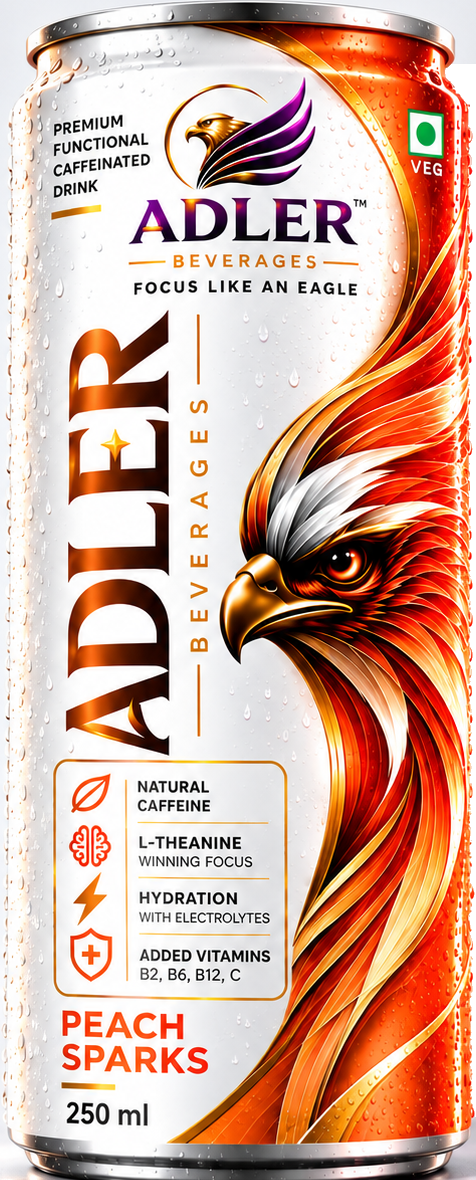
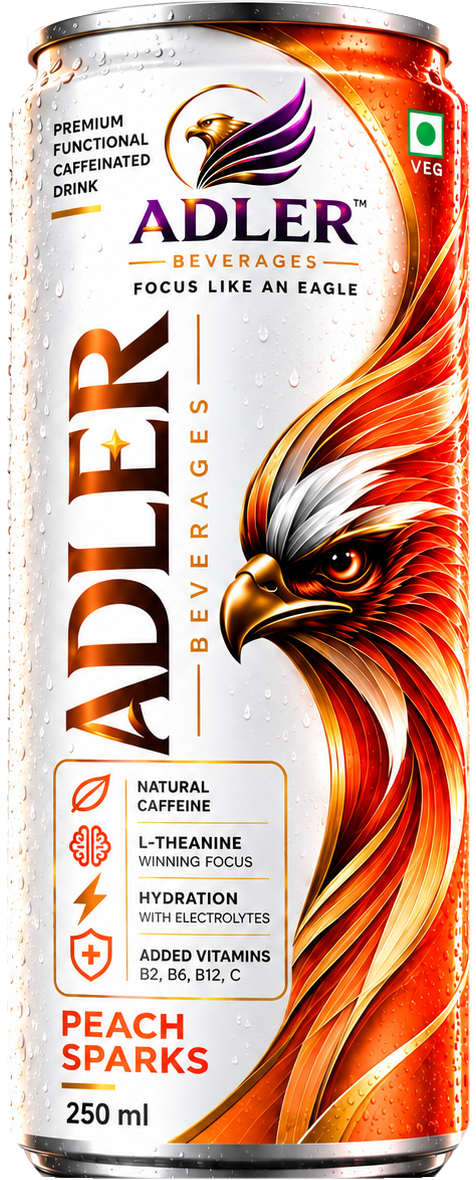
fix(hero): trim can corners to natural contours and reduce hero can scale

diff --git a/site/site.css b/site/site.css
@@ -475,13 +475,13 @@ body {
   }
   .pf-wall-item {
     display: block;
-    width: 158px;
-    filter: drop-shadow(14px 18px 16px rgba(80, 45, 10, 0.22));
+    width: 114px;
+    filter: drop-shadow(12px 16px 14px rgba(80, 45, 10, 0.20));
     transition: translate 0.5s var(--ease-out), filter 0.5s var(--ease-out);
   }
   .pf-wall-item:hover {
     translate: 0 -26px;
-    filter: drop-shadow(14px 30px 22px rgba(80, 45, 10, 0.26)) brightness(1.04);
+    filter: drop-shadow(12px 28px 20px rgba(80, 45, 10, 0.24)) brightness(1.04);
   }
   .pf-hero-prop {
     position: absolute;
@@ -2242,8 +2242,9 @@ html.is-static .pf-life::after {
 
 /* ═══ Round 3 ═════════════════════════════════════════════════════════════════ */
 @layer components {
-  /* ── Hero: bottles tilt toward the cursor ── */
-  .pf-wall-item .pf-bottle {
+  /* ── Hero: cans tilt toward the cursor ── */
+  .pf-wall-item .pf-bottle,
+  .pf-wall-item img {
     transform: rotate(var(--tilt, 0deg)) translateY(var(--tilt-y, 0px));
     transition: transform 0.35s var(--ease-out);
   }
